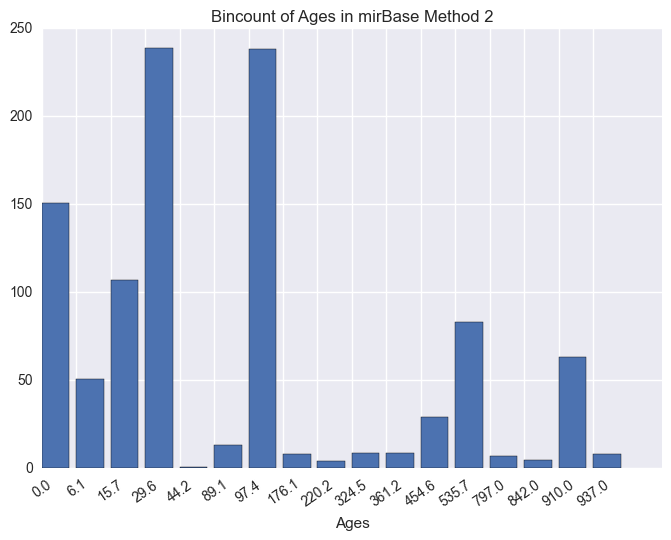
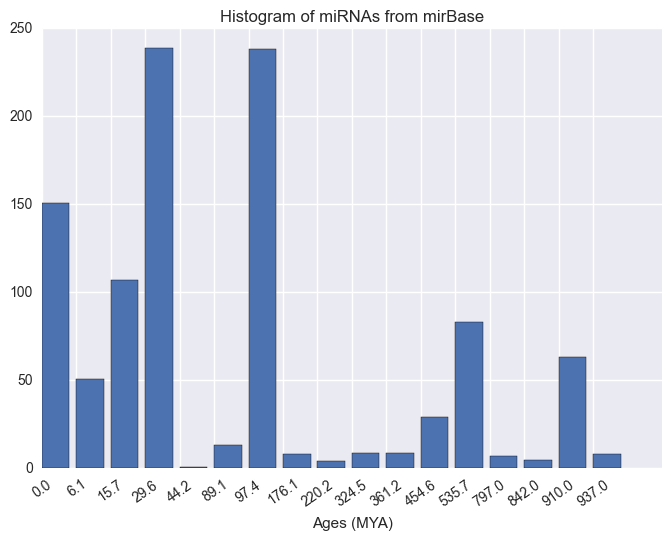
update

Changed region(s): [[0.2981, 0.0, 0.7452, 0.0593], [0.4471, 0.9481, 0.5961, 0.9778]]

diff --git a/main_script/mirVIR.py b/main_script/mirVIR.py
@@ -20,6 +20,7 @@ import sys, os, string, numpy, matplotlib.pyplot as plt
 from scipy.stats import spearmanr
 from distance import hamming
 from numpy import mean
+import pylab
 
 
 
@@ -220,6 +221,10 @@ def disease_number_correlations(mirna2disease,mirna2age):
 	age = []
 	number_disease = []
 
+
+	print len([i for i in mirna2disease.keys() if i in mirna2age])
+	print len(mirna2age)
+
 	for mirna in mirna2disease:
 		age.append(mirna2age[mirna])
 		number_disease.append(len(mirna2disease[mirna]))
@@ -237,10 +242,11 @@ def disease_number_correlations(mirna2disease,mirna2age):
 	labels = sorted(age2num.keys())
 	nums = [age2num[i] for i in labels]
 	plt.figure(figsize=(10,7))
+	pylab.ylim([0,60])
 	plt.boxplot(nums,labels=labels)
-	plt.xlabel('miRNA Ages')
+	plt.xlabel('miRNA Ages (MYA)')
 	plt.ylabel('Number of Associated Diseases')
-	plt.title('miRNA Age versus Number of Disease Associations')
+	plt.title('Plot of miRNA Age Versus Number of Disease Associations')
 	plt.savefig('images/mirna_ages_vs_num_dis.png')
 	plt.close()
 
@@ -299,7 +305,7 @@ def hamming_distance(mirna2age, family2members, member2family_name,diseaselst, m
 			for other in members:
 				vec1 = ''.join(mirna2bin_vec[mirna])
 				vec2 = ''.join(mirna2bin_vec[other])
-				mir_spec_vec.append(hamming(vec1, vec2))
+				mir_spec_vec.append(hamming(vec1, vec2, normalized=True))
 			mirna2family_hamming[mirna] = mir_spec_vec[:]
 			family_vec.append(mir_spec_vec[:])
 		family2hamming_distances[fam] = family_vec[:]
@@ -326,11 +332,11 @@ def hamming_distance(mirna2age, family2members, member2family_name,diseaselst, m
 	labels = sorted(mirna_age2hamming.keys())
 	nums = [mirna_age2hamming[i] for i in labels]
 	fig, ax1 = plt.subplots(figsize=(10,10))
-	ax1.set_ylim(0, 75)
+	ax1.set_ylim(0, 0.2)
 	plt.boxplot(nums,labels=labels)
-	plt.xlabel('miRNA Family Age')
+	plt.xlabel('miRNA Family Age (MYA)')
 	plt.ylabel('Hamming Vector')
-	plt.title('An Illustration of miRNA Age Versus the Similarity of Diseases It Targets')
+	plt.title('Plot of miRNA Family Age Versus Homogeneity of Member Disease Assocations')
 	plt.savefig('images/mirna_ages_vs_hamming.png')
 	plt.close()
 
@@ -392,6 +398,11 @@ def target_mirna_corrs(verified_dicts,mirna2age,age2mirna,disease2mirna,mirna2di
 			mir_ages.append(float(mirna2age[mirna]))
 			tar_nums.append(len(mirna2targets[mirna]))
 	corr =  spearmanr(mir_ages, tar_nums)
+
+
+	
+
+
 
 	fle = open('txtfles/corrs.txt','a')
 	fle.write('miRNA Age vs Number of Targets\t')
@@ -483,6 +494,16 @@ def target_mirna_corrs(verified_dicts,mirna2age,age2mirna,disease2mirna,mirna2di
 	fle.write(str(per) + '\n')
 	fle.close()
 
+	agetmp = 0.0
+	for mirna in mirna2age:
+		agetmp += float(mirna2age[mirna])
+	print agetmp / float(len(mirna2age.keys()))
+
+
+	agetmp = 0.0
+	for gene in gene2age:
+		agetmp += float(gene2age[gene])
+	print agetmp / float(len(gene2age.keys()))
 
 
 
@@ -504,7 +525,7 @@ def target_mirna_corrs(verified_dicts,mirna2age,age2mirna,disease2mirna,mirna2di
 	# 		num += 1
 	# print num
 
-	bincount('Target Ages', 'Ages of Targets', [float(gene2age[i]) for i in tarlst if i in gene2age], 'images/tar_ages.png')
+	bincount('HGNC Gene Ages (MYA)', 'Histogram of Human Gene Ages from HGNC', [float(gene2age[i]) for i in tarlst if i in gene2age], 'images/tar_ages.png')
 	secondlst = []
 	for tar in targets2mirna:
 		if tar in gene2age:
@@ -534,9 +555,8 @@ def target_mirna_corrs(verified_dicts,mirna2age,age2mirna,disease2mirna,mirna2di
 	a = np.array(percent_under_lst[:])
 
 	plt.hist(a,20)
-	plt.xlabel('Percent of Targets Under The miRNA Age')
-	plt.ylabel('Frequency')
-	plt.title('Distribution of Percent of Targets Under The miRNA Age')
+	plt.xlabel('Percent of Targets Respective miRNA Age')
+	plt.title('Frequency Distributution of Percent Younger Targets for Each miRNA')
 	plt.savefig('images/percent_under_hist.png')
 	
 	plt.close()

diff --git a/main_script/bincounts_all_ages/bincount_maker.py b/main_script/bincounts_all_ages/bincount_maker.py
@@ -6,7 +6,10 @@ import pandas as pd
 from scipy import stats
 import matplotlib as mpl
 import matplotlib.pyplot as plt
+
 import seaborn as sns
+from pylab import *
+
 
 
 def breakfile(line):
@@ -18,6 +21,9 @@ def breakfile(line):
 
 def bincount(xlab,name,lst,filename):
 	data = [float(a) for a in lst]
+
+
+
 	alldata = sorted(data)
 	labs = sorted(list(set(data)))
 	howmany = {}
@@ -34,15 +40,21 @@ def bincount(xlab,name,lst,filename):
 
 	left = range(len(bins))
 
+
+
 	plt.bar(left, bins)
 	plt.xticks(left,labs,rotation=35)
 	plt.title(name)
 	plt.xlabel(xlab)
+	
 
 	plt.savefig(filename, bbox_inches='tight')
 	plt.close()
-	return
 
+
+
+
+	return
 
 
 
@@ -58,7 +70,7 @@ for line in ages:
 
 
 
-bincount('Ages', 'Bincount of Ages in mirBase Method 2' ,ageslst, 'mirbase_method2_ages_bincount.png')
+bincount('Ages (MYA)', 'Histogram of miRNAs from mirBase' ,ageslst, 'mirbase_method2_ages_bincount.png')
 
 
 	
